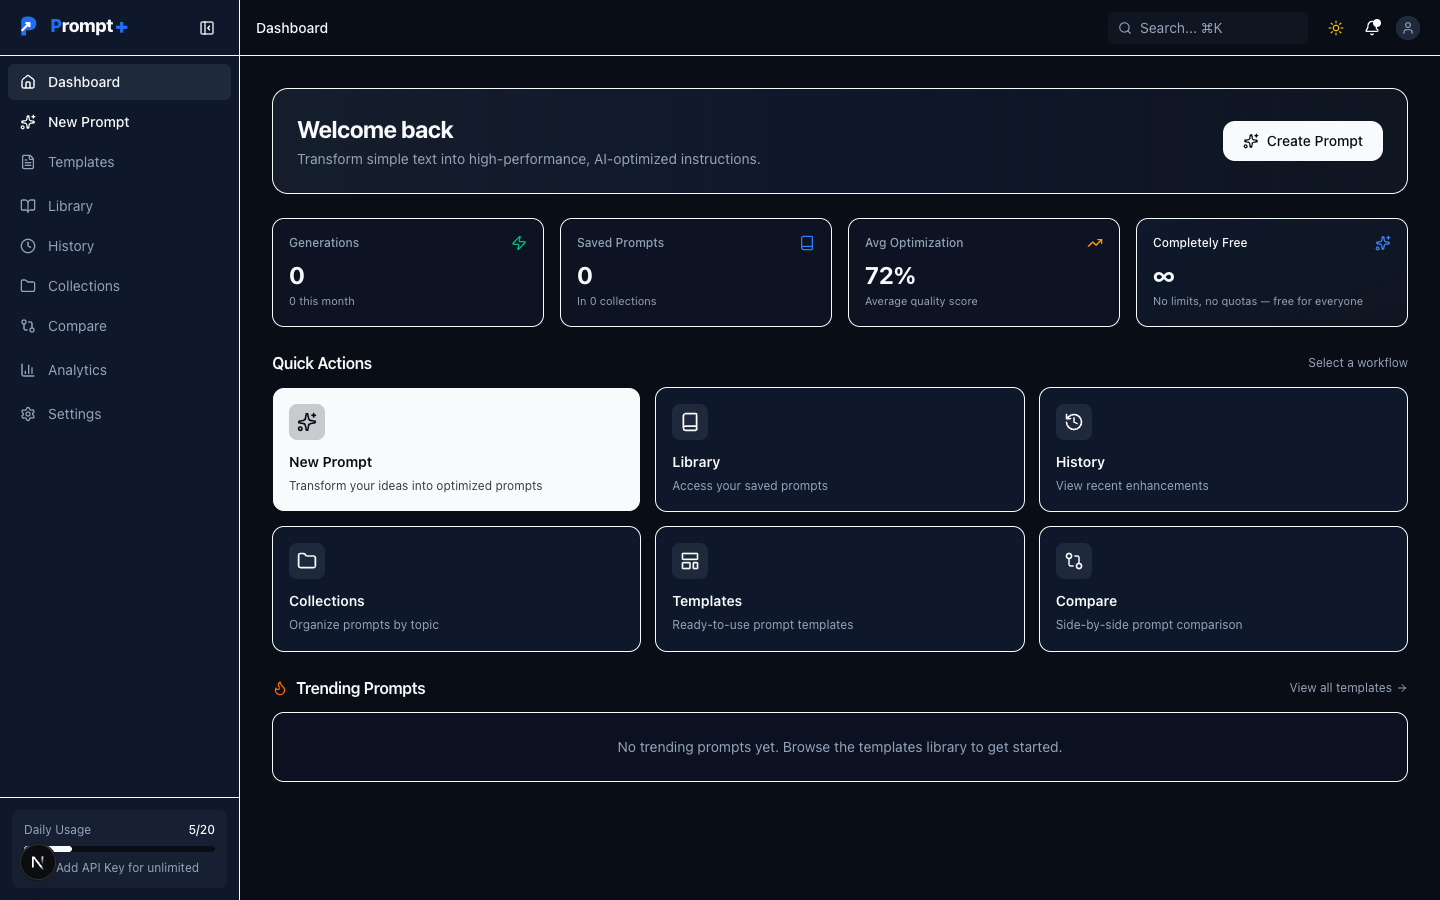
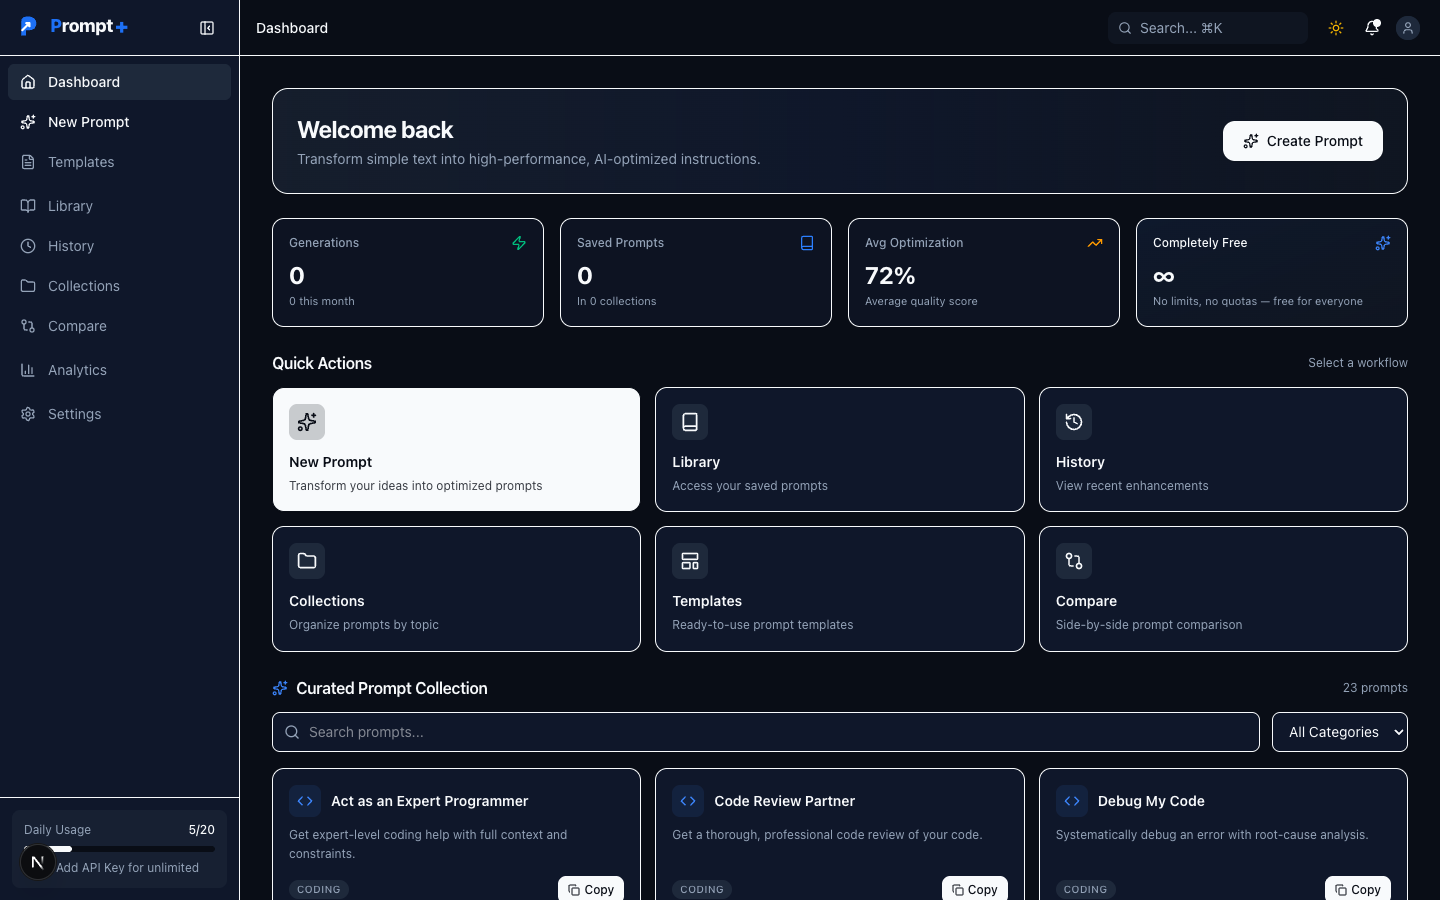
Replace trending section with full curated prompt collection on dashboard

diff --git a/src/app/(dashboard)/dashboard/page.tsx b/src/app/(dashboard)/dashboard/page.tsx
@@ -2,7 +2,8 @@
 
 import { useState, useEffect } from "react";
 import Link from "next/link";
-import { Sparkles, Book, History, Folder, LayoutTemplate, GitCompare, ArrowRight, Zap, TrendingUp, Loader2, Flame, Copy, Check } from "lucide-react";
+import { Sparkles, Book, History, Folder, LayoutTemplate, GitCompare, ArrowRight, Zap, TrendingUp, Loader2, Search, Copy, Check, FileText, Code, GraduationCap, Megaphone, ChartLine, Briefcase, Lightbulb } from "lucide-react";
+import { curatedPrompts } from "@/lib/curated-prompts";
 
 const quickActions = [
   {
@@ -44,13 +45,24 @@ const quickActions = [
   },
 ];
 
+const categoryMeta: Record<string, { label: string; icon: typeof Code }> = {
+  coding: { label: "Coding", icon: Code },
+  writing: { label: "Writing", icon: FileText },
+  learning: { label: "Learning", icon: GraduationCap },
+  marketing: { label: "Marketing", icon: Megaphone },
+  analysis: { label: "Analysis", icon: ChartLine },
+  productivity: { label: "Productivity", icon: Briefcase },
+  creativity: { label: "Creativity", icon: Lightbulb },
+  career: { label: "Career", icon: Briefcase },
+};
+
 export default function DashboardPage() {
   const [usage, setUsage] = useState<{ totalPrompts: number; totalEnhancements: number; averageScore: number; monthly: { used: number } } | null>(null);
   const [collectionsCount, setCollectionsCount] = useState(0);
   const [loading, setLoading] = useState(true);
-  const [trending, setTrending] = useState<{ id: string; title: string; description: string; prompt: string; usageCount: number; category: string }[]>([]);
-  const [trendingLoading, setTrendingLoading] = useState(true);
   const [copiedId, setCopiedId] = useState<string | null>(null);
+  const [search, setSearch] = useState("");
+  const [category, setCategory] = useState("all");
 
   useEffect(() => {
     Promise.all([
@@ -62,17 +74,20 @@ export default function DashboardPage() {
     }).catch(() => {}).finally(() => setLoading(false));
   }, []);
 
-  useEffect(() => {
-    fetch("/api/v1/templates?isOfficial=true").then((r) => r.json()).then((json) => {
-      const list = Array.isArray(json.data) ? json.data : [];
-      setTrending([...list].sort((a, b) => b.usageCount - a.usageCount).slice(0, 6));
-    }).catch(() => {}).finally(() => setTrendingLoading(false));
-  }, []);
+  const filtered = curatedPrompts.filter((p) => {
+    const matchesCategory = category === "all" || p.category === category;
+    const q = search.trim().toLowerCase();
+    const matchesSearch =
+      !q ||
+      p.title.toLowerCase().includes(q) ||
+      p.description.toLowerCase().includes(q) ||
+      p.prompt.toLowerCase().includes(q);
+    return matchesCategory && matchesSearch;
+  });
 
-  const copyTrending = async (t: { id: string; prompt: string }) => {
-    await navigator.clipboard.writeText(t.prompt);
-    setCopiedId(t.id);
-    try { await fetch(`/api/v1/templates/${t.id}/use`, { method: "POST" }); } catch { /* ignore */ }
+  const copyPrompt = async (id: string, prompt: string) => {
+    await navigator.clipboard.writeText(prompt);
+    setCopiedId(id);
     setTimeout(() => setCopiedId(null), 2000);
   };
 
@@ -175,45 +190,58 @@ export default function DashboardPage() {
         </div>
       </div>
 
-      {/* Trending Prompts */}
+      {/* Curated Prompt Collection */}
       <div>
         <div className="flex items-center justify-between mb-3">
           <div className="flex items-center gap-2">
-            <Flame className="h-4 w-4 text-orange-500" />
-            <h3 className="font-semibold text-base tracking-tight">Trending Prompts</h3>
+            <Sparkles className="h-4 w-4 text-primary" />
+            <h3 className="font-semibold text-base tracking-tight">Curated Prompt Collection</h3>
           </div>
-          <Link href="/dashboard/templates" className="text-xs text-muted-foreground hover:text-foreground flex items-center gap-1">
-            View all templates <ArrowRight className="h-3 w-3" />
-          </Link>
+          <span className="text-xs text-muted-foreground">{filtered.length} prompts</span>
         </div>
-        {trendingLoading ? (
-          <div className="grid grid-cols-1 md:grid-cols-2 lg:grid-cols-3 gap-3.5">
-            {[1, 2, 3].map((i) => (
-              <div key={i} className="p-4 rounded-xl border bg-card animate-pulse">
-                <div className="h-3 w-32 bg-muted rounded mb-2" />
-                <div className="h-2 w-full bg-muted rounded mb-2" />
-                <div className="h-2 w-3/4 bg-muted rounded" />
-              </div>
-            ))}
+        <div className="flex flex-col sm:flex-row items-center gap-3 mb-4">
+          <div className="relative flex-1 w-full">
+            <Search className="absolute left-3 top-1/2 -translate-y-1/2 h-4 w-4 text-muted-foreground" />
+            <input
+              type="text"
+              value={search}
+              onChange={(e) => setSearch(e.target.value)}
+              placeholder="Search prompts..."
+              className="h-10 w-full rounded-lg border bg-card pl-9 pr-3 text-sm outline-none focus:border-ring focus:ring-1 focus:ring-ring"
+            />
           </div>
-        ) : trending.length > 0 ? (
-          <div className="grid grid-cols-1 md:grid-cols-2 lg:grid-cols-3 gap-3.5">
-            {trending.map((t, idx) => (
-              <div key={t.id} className="flex flex-col p-4 rounded-xl border bg-card hover:border-foreground/20 transition-colors">
-                <div className="flex items-center justify-between mb-1.5">
-                  <h4 className="font-semibold text-sm truncate">{t.title}</h4>
-                  <span className="text-[10px] px-1.5 py-0.5 rounded bg-orange-100 dark:bg-orange-900/30 text-orange-700 dark:text-orange-400 font-medium flex items-center gap-0.5 shrink-0 ml-2">
-                    <Flame className="h-3 w-3" /> #{idx + 1}
-                  </span>
+          <select
+            value={category}
+            onChange={(e) => setCategory(e.target.value)}
+            className="h-10 rounded-lg border bg-card px-3 text-sm outline-none focus:border-ring"
+          >
+            <option value="all">All Categories</option>
+            {Object.entries(categoryMeta).map(([key, meta]) => (
+              <option key={key} value={key}>{meta.label}</option>
+            ))}
+          </select>
+        </div>
+        <div className="grid grid-cols-1 md:grid-cols-2 lg:grid-cols-3 gap-3.5">
+          {filtered.map((p) => {
+            const meta = categoryMeta[p.category] || categoryMeta.creativity;
+            return (
+              <div key={p.title} className="flex flex-col p-4 rounded-xl border bg-card hover:border-foreground/20 transition-colors">
+                <div className="flex items-center gap-2.5 mb-2">
+                  <div className="w-8 h-8 rounded-lg bg-primary/10 flex items-center justify-center flex-shrink-0">
+                    <meta.icon className="h-4 w-4 text-primary" />
+                  </div>
+                  <h4 className="font-semibold text-sm truncate">{p.title}</h4>
                 </div>
-                <p className="text-xs text-muted-foreground leading-relaxed mb-3 line-clamp-2 flex-1">{t.description || t.prompt}</p>
+                <p className="text-xs text-muted-foreground leading-relaxed mb-3 line-clamp-2 flex-1">{p.description}</p>
                 <div className="flex items-center justify-between">
-                  <span className="text-[10px] text-muted-foreground">{t.usageCount} uses</span>
+                  <span className="text-[10px] px-2 py-0.5 rounded bg-muted text-muted-foreground font-medium uppercase tracking-wider">
+                    {meta.label}
+                  </span>
                   <button
-                    onClick={() => copyTrending(t)}
+                    onClick={() => copyPrompt(p.title, p.prompt)}
                     className="inline-flex items-center gap-1 px-2.5 py-1.5 rounded-lg bg-foreground text-background text-xs font-medium hover:bg-foreground/90 transition-colors active:scale-95"
                   >
-                    {copiedId === t.id ? (
+                    {copiedId === p.title ? (
                       <>
                         <Check className="h-3 w-3" /> Copied
                       </>
@@ -225,11 +253,12 @@ export default function DashboardPage() {
                   </button>
                 </div>
               </div>
-            ))}
-          </div>
-        ) : (
+            );
+          })}
+        </div>
+        {filtered.length === 0 && (
           <div className="p-6 rounded-xl border bg-card/50 text-center">
-            <p className="text-sm text-muted-foreground">No trending prompts yet. Browse the templates library to get started.</p>
+            <p className="text-sm text-muted-foreground">No prompts match your search.</p>
           </div>
         )}
       </div>
